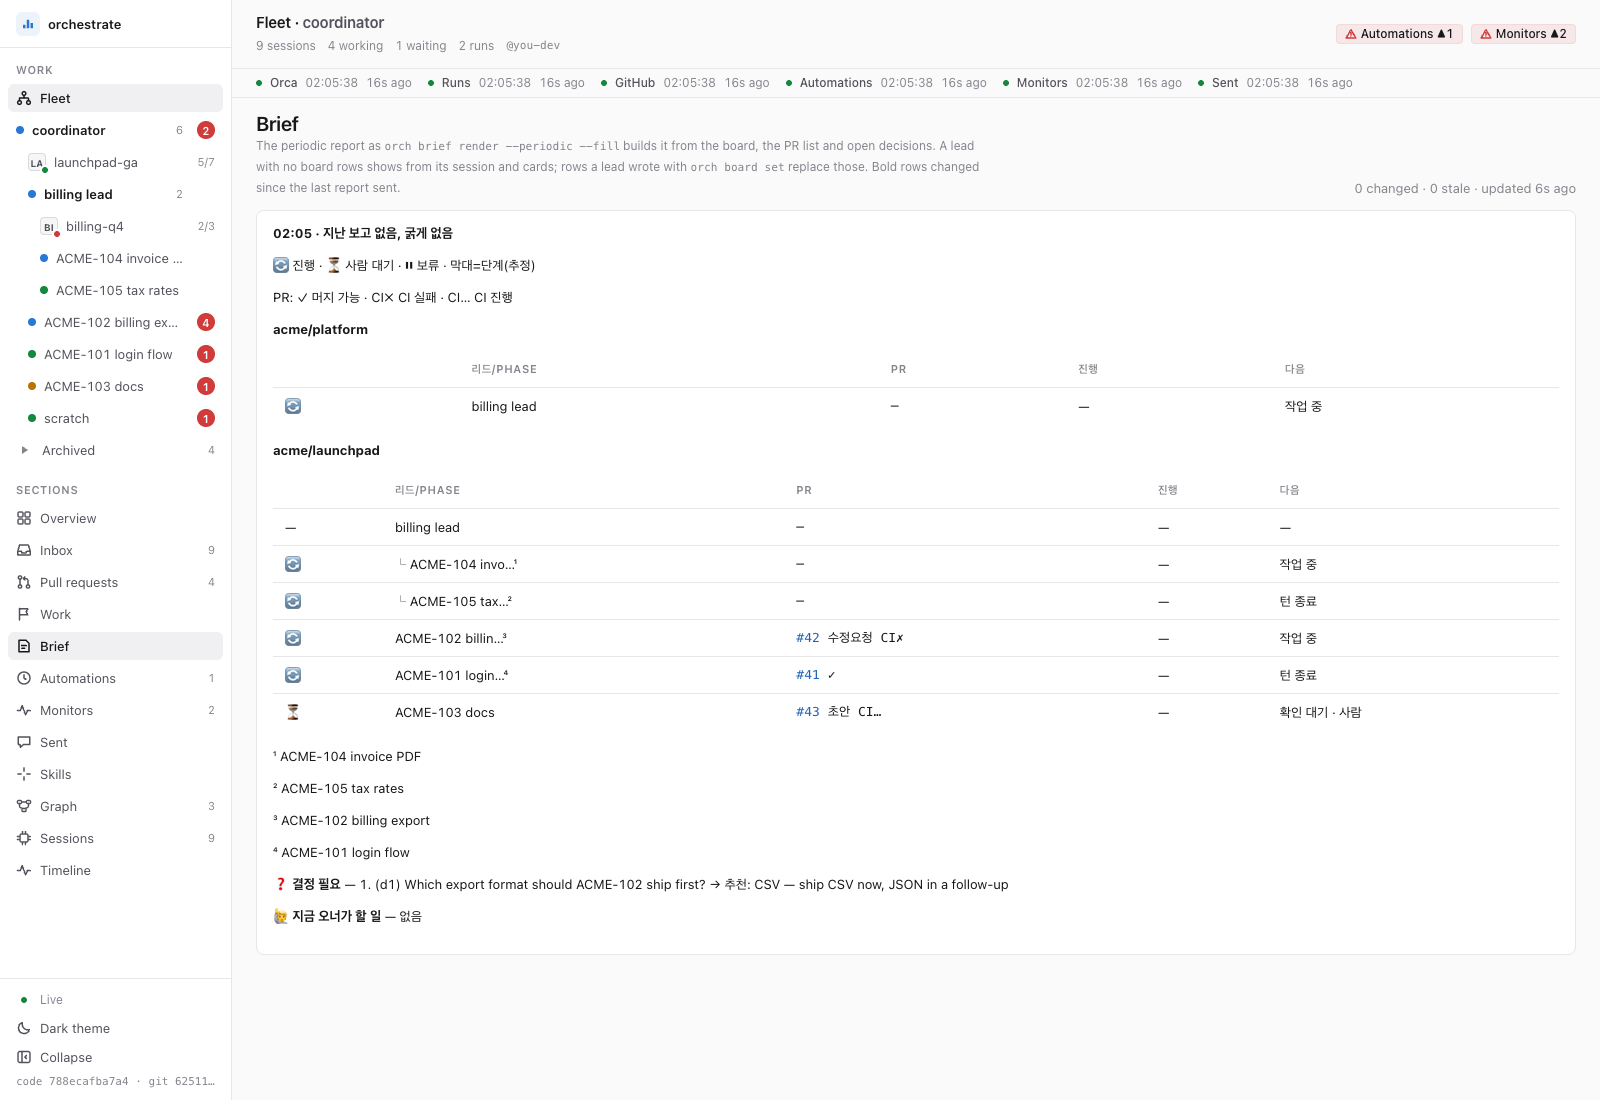
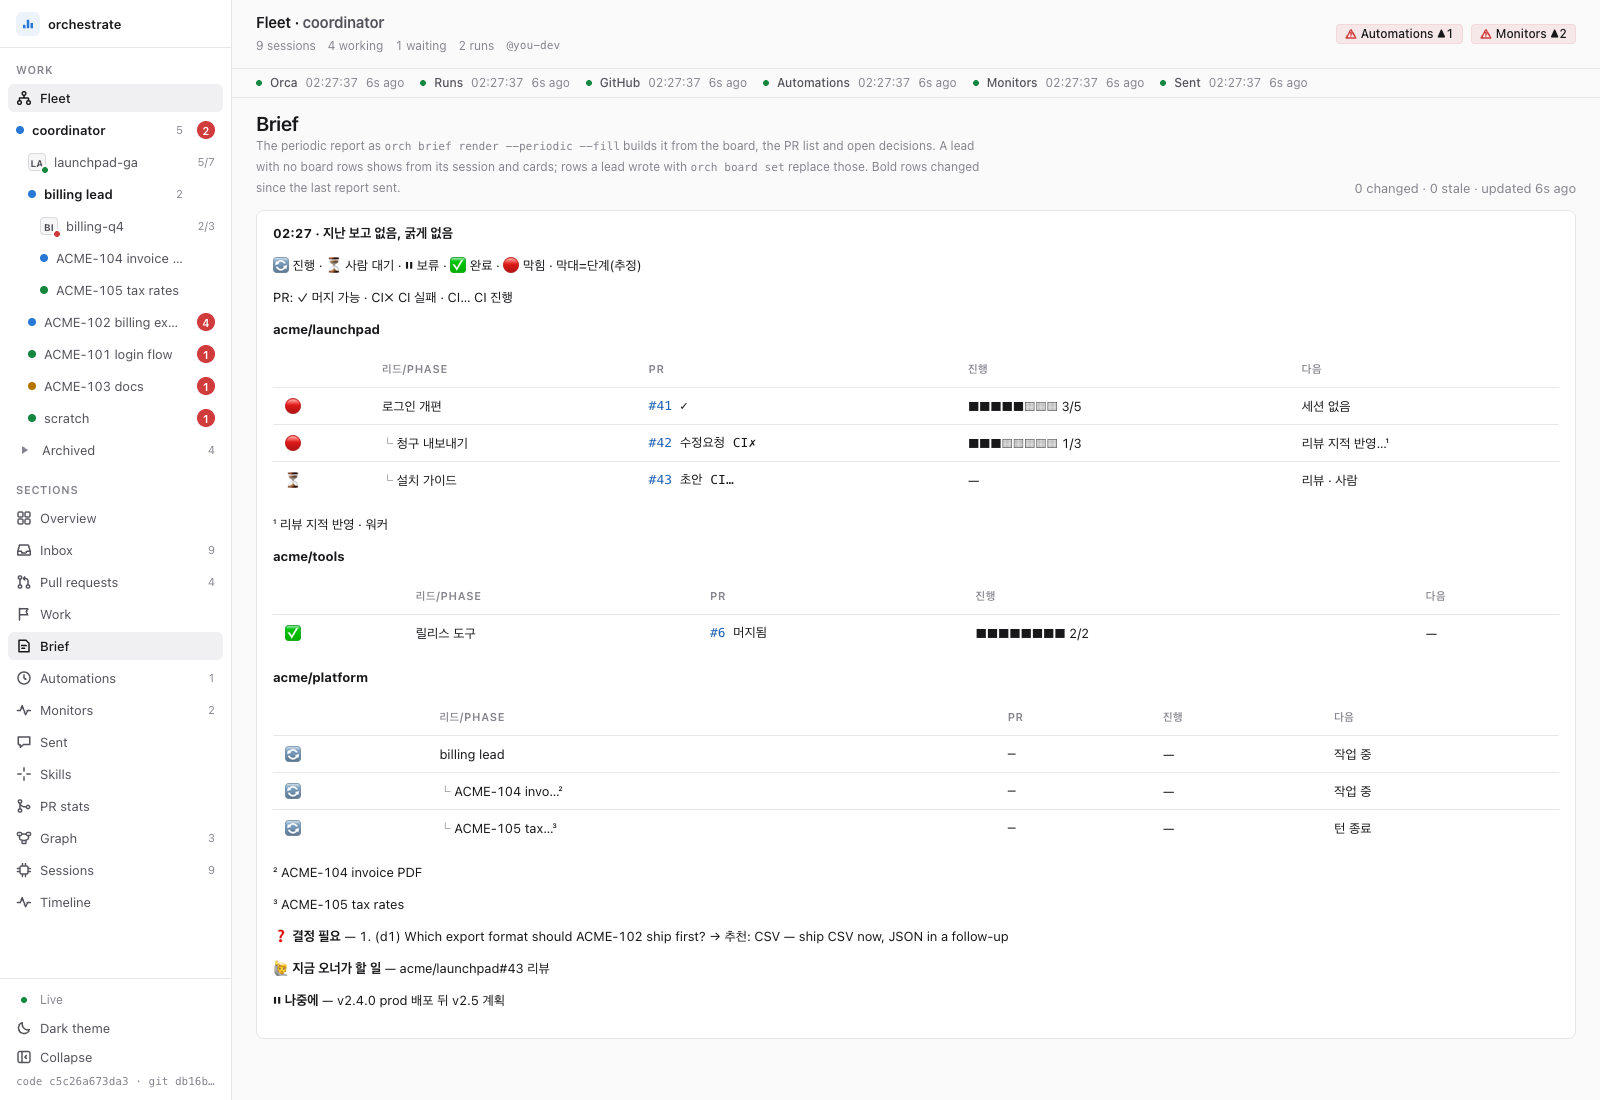
fix(orchestrate): fill 행의 리드가 섹션 둘에 나오지 않게 하고 사이드바 중복·폴링 비용을 줄인다
코디 리뷰(MUST 1·SHOULD 4·NIT 1) 대응.
- board.fleet_rows: 리드 밑 카드는 repo 를 비워 리드의 repo 를 물려받는다. 카드가 다른 저장소에서 일해도 리드가 한 섹션에만 나온다.
- board.fleet_rows: board 행이 이미 가진 PR 의 카드는 fill 하지 않는다. board 우선 규칙이 리드 handle 이 아닌 카드에도 걸린다.
- 사이드바: Archived 로 접힌 프로그램은 살아 있는 리드 밑에 다시 그리지 않는다. 하위 수는 화면에 보이는 자식만 센다.
- dash.py: ledger 의 (closed, 마지막 이벤트) 를 mtime·크기로 캐시해 /api/programs 폴링이 ledger 전체를 매번 읽지 않는다. closed() 도 같은 캐시를 쓴다.
- 스크린샷 3장(Overview 2560 후, Brief, Archived)을 고친 코드로 다시 찍었다.

diff --git a/skills/orchestrate/assets/dashboard/fleet.js b/skills/orchestrate/assets/dashboard/fleet.js
@@ -132,10 +132,11 @@ const ARCHIVE_MS = 3 * 86400e3;
 function navTree(st, programs) {
   const ss = st ? st.sessions || [] : [], now = Date.now(), kids = {};
   const isLead = (s) => s.kind === "orchestrator" || s.kind === "orchestration";
-  ss.forEach((s) => { kids[s.parent] = (kids[s.parent] || 0) + 1; });
+  const shown = (s) => s.phase !== "offline" || s.unread || isLead(s);
+  ss.filter(shown).forEach((s) => { kids[s.parent] = (kids[s.parent] || 0) + 1; });
   const runOf = new Map(ss.filter((s) => s.run && isLead(s)).map((s) => [s.run, s.id]));
-  const progOf = new Map(programs.filter((p) => runOf.has(p.run)).map((p) => [runOf.get(p.run), p]));
   const archived = (p) => p.closed || (!runOf.has(p.run) && now - ms(p.last_event || p.generated_at) > ARCHIVE_MS);
+  const progOf = new Map(programs.filter((p) => runOf.has(p.run) && !archived(p)).map((p) => [runOf.get(p.run), p]));
   const loose = programs.filter((p) => !runOf.has(p.run) && !archived(p)), old = programs.filter(archived);
   const progRow = (p, d) => {
     const s = p.summary || {}, done = s.predicate_total ? `${s.predicate_done ?? "–"}/${s.predicate_total}` : "";
@@ -145,7 +146,7 @@ function navTree(st, programs) {
       <span class="sb-text">${esc(p.slug)}</span><span class="count">${esc(done)}</span></a></li>`;
   };
   const out = [`<li><a class="nav-item" href="#/fleet/overview" ${isFleet() && !F.sessionId ? 'aria-current="page"' : ""} title="Fleet">${icon("fleet")}<span class="sb-text">Fleet</span></a></li>`];
-  const rows = st ? sessionTree(st).filter(([s]) => s.phase !== "offline" || s.unread || isLead(s)) : [];
+  const rows = st ? sessionTree(st).filter(([s]) => shown(s)) : [];
   for (const [s, d] of rows) {
     const n = kids[s.id] || 0, lead = isLead(s), p = progOf.get(s.id);
     out.push(`<li><a class="nav-item tree ${lead ? "lead" : ""}" style="--d:${Math.min(d, 3)}" href="${sessionHref(s.id)}"

diff --git a/skills/orchestrate/scripts/test_board.py b/skills/orchestrate/scripts/test_board.py
@@ -276,23 +276,25 @@ prs_json["prs"].update(dict(pr(f"acme/solo#{n}", reviewers=["rev-e"]) for n in (
 solo = ok("brief", "render", "--periodic", "--now", NOW)
 assert "**acme/solo → main**\n\n- ⏳ 2건 rev-e 대기 — 분야 작업81·작업82" in solo, solo
 
-# --fill: a lead session nobody wrote to the board shows with its cards and their PRs; a lead the board holds (by its
-# terminal) keeps only its board rows; the coordinator's own card is a row of its own; an offline card with no PR is left out.
+# --fill: a lead session nobody wrote to the board shows with its cards and their PRs, in the lead's section even when a
+# card works in another repo; a lead the board holds (by its terminal) keeps only its board rows; the coordinator's own
+# card is a row of its own unless a board row already has its PR; an offline card with no PR is left out.
 sess = lambda sid, kind, parent, phase, h=None, **kw: {"id": sid, "kind": kind, "parent": parent, "phase": phase, "name": sid,
                                                       "gh_repo": "acme/fill", "last_activity": "2026-10-13T14:20:00Z",
                                                       "terminals": [{"handle": h or f"term_{sid}"}], **kw}
 (state / "state.json").write_text(json.dumps({"sessions": [
     sess("root", "orchestrator", None, "working"),
     sess("lead9", "orchestration", "root", "idle", name="정산 리드"),
-    sess("c1", "task", "lead9", "working", task_title="FILL-1 영수증"), sess("c2", "standalone", "lead9", "waiting"),
+    sess("c1", "task", "lead9", "working", task_title="FILL-1 영수증", gh_repo="acme/other"), sess("c2", "standalone", "lead9", "waiting"),
     sess("c3", "task", "lead9", "offline"), sess("c4", "task", "root", "working", last_activity="2026-10-13T11:00:00Z"),
-    sess("held", "orchestration", "root", "working", h="term_0FAKE2")],
-    "prs": [{"key": "acme/fill#5", "session": "c1"}]}))
+    sess("held", "orchestration", "root", "working", h="term_0FAKE2"), sess("c5", "task", "root", "working")],
+    "prs": [{"key": "acme/fill#5", "session": "c1"}, {"key": "acme/web#45", "session": "c5"}]}))
 prs_json["prs"].update(dict([pr("acme/fill#5", ci="pending")]))
 (state / "prs.json").write_text(json.dumps(prs_json))
 assert "정산 리드" not in ok("brief", "render", "--periodic", "--now", NOW)
 filled = json.loads(ok("brief", "render", "--periodic", "--now", NOW, "--json", "--fill"))["text"]
-fill_rows = [l for l in filled.splitlines() if "acme/fill" in l or "정산" in l or "FILL" in l or "c2" in l or "c4" in l]
+fill_rows = [l for l in filled.splitlines() if "acme/fill" in l or "acme/other" in l or "정산" in l or "FILL" in l
+             or "c2" in l or "c4" in l]
 assert fill_rows == [
     "**acme/fill — 정산 리드 → main**",
     "| ⏳ | 정산 리드 | — | — | 턴 종료 |",
@@ -300,7 +302,7 @@ assert fill_rows == [
     "| ⏳ | └ c2 | — | — | 확인 대기 · 사람 |",
     "**acme/fill**",
     "| 🔄 | c4 | — | — | 작업 중 · 3h 전 |"], filled
-assert "held" not in filled and "c3" not in filled, filled
+assert "held" not in filled and "c3" not in filled and "c5" not in filled, filled
 # The last committed report never had fleet rows (it ran without --fill): they are not bold as new on every poll.
 (tmp / "brief-last" / "top-level.json").write_text(json.dumps({"ts": T0, "rows": {}}))
 changed = json.loads(ok("brief", "render", "--periodic", "--now", NOW, "--json", "--fill"))["changed"]

diff --git a/skills/orchestrate/scripts/board.py b/skills/orchestrate/scripts/board.py
@@ -266,14 +266,15 @@ PHASE_ROW = {"working": ("moving", "작업 중"), "idle": ("moving", "턴 종료
              "open": ("held", "에이전트 없음"), "offline": ("held", "세션 꺼짐")}
 
 
-def fleet_rows(state, leads):
+def fleet_rows(state, leads, board_rows):
     """Board rows built from the fleet collector's sessions (state.json), for what nobody wrote to the board: each lead
     session whose terminal no board lead holds, the cards under it, and the cards the top-level coordinator dispatched
-    itself. Each card carries its newest PR. Returns (rows, order); reported_at is the session's last activity, so a
-    quiet one shows its age like a stale board row."""
+    itself. Each card carries its newest PR; a card whose PR a board row already has is left to that row. Returns
+    (rows, order); reported_at is the session's last activity, so a quiet one shows its age like a stale board row."""
     state = state or {}
     sessions = state.get("sessions") or []
     held = {l.get("handle") for l in leads.values()}
+    on_board = {r.get("pr") for r in board_rows.values()} - {None}
     pr_of, under = {}, {}
     for p in state.get("prs") or []:  # newest first
         if p.get("session"):
@@ -288,11 +289,13 @@ def fleet_rows(state, leads):
         title = s.get("name") if kind == "lead" else s.get("task_title") or s.get("name")
         rows[rid] = {"id": rid, "kind": kind, "title": one_line(title or rid, 80), "status": status, "next": nxt,
                      "pr": pr_of.get(s.get("id")), "reported_at": s.get("last_activity"), "parent": parent,
-                     "repo": s.get("gh_repo") or s.get("project") or "—", "program": program}
+                     # a card under a lead takes the lead's repo, so the lead heads one section
+                     "repo": None if parent else s.get("gh_repo") or s.get("project") or "—", "program": program}
         order.append(rid)
 
     def shown(s):
-        return s.get("phase") != "offline" or s.get("id") in pr_of
+        pr = pr_of.get(s.get("id"))
+        return (s.get("phase") != "offline" or pr) and pr not in on_board
 
     for lead in sessions:
         if lead.get("kind") != "orchestration" or held & {t.get("handle") for t in lead.get("terminals") or []}:
@@ -327,7 +330,7 @@ def render(scope="top-level", channel="terminal", now=None, headline=None, skipp
     last = fleet.read_json(last_path(scope), None)
     last_rows = last.get("rows") if isinstance(last, dict) and isinstance(last.get("rows"), dict) else None
     if fill:
-        extra, extra_order = fleet_rows(state, store["leads"])
+        extra, extra_order = fleet_rows(state, store["leads"], store["rows"])
         store["rows"], store["order"] = {**extra, **store["rows"]}, store["order"] + extra_order
     rows = store["rows"]
 

diff --git a/skills/orchestrate/scripts/dash.py b/skills/orchestrate/scripts/dash.py
@@ -1123,10 +1123,27 @@ def programs():
     return sorted(p.name for p in root.iterdir() if (p / "program.json").exists() and SLUG_RE.fullmatch(p.name))
 
 
+LEDGER_TAIL = {}  # ledger path -> ((mtime_ns, size), (closed, last event ts)); the sidebar polls every program's ledger
+
+
+def ledger_tail(slug):
+    f = program_dir(slug) / "ledger.jsonl"
+    try:
+        s = f.stat()
+        key = (s.st_mtime_ns, s.st_size)
+    except OSError:
+        key = None
+    hit = LEDGER_TAIL.get(f)
+    if not hit or hit[0] != key:
+        events = read_jsonl(f)
+        hit = LEDGER_TAIL[f] = (key, (prog.final_check_current(events), events[-1].get("ts") if events else None))
+    return hit[1]
+
+
 def closed(slug):
     """A program with a current final check has stopped moving, so only its ledger is still watched. A landing, a
     predicate edit or an admitted follow-up after the check reopens it."""
-    return prog.final_check_current(read_jsonl(program_dir(slug) / "ledger.jsonl"))
+    return ledger_tail(slug)[0]
 
 
 def signature(slug):
@@ -1233,12 +1250,12 @@ class Handler(http.server.BaseHTTPRequestHandler):
             for slug in programs():
                 cfg = read_json(home() / slug / "program.json", {})
                 st = read_json(home() / slug / "dashboard" / "state.json", {}) or {}
-                events = read_jsonl(home() / slug / "ledger.jsonl")
+                done, last_event = ledger_tail(slug)
                 rows.append({"slug": slug, "repo": cfg.get("repo"), "run": cfg.get("run"),
                              "merge_policy": cfg.get("merge_policy"), "generated_at": st.get("generated_at"),
                              "summary": st.get("summary"), "errors": len(st.get("errors") or []),
                              # the sidebar folds a program away once it is closed or quiet with no lead on screen
-                             "closed": prog.final_check_current(events), "last_event": events[-1].get("ts") if events else None})
+                             "closed": done, "last_event": last_event})
             return self.send(200, json.dumps(rows, ensure_ascii=False).encode())
         m = re.fullmatch(r"/api/([^/]+)/state", path)
         if m:
